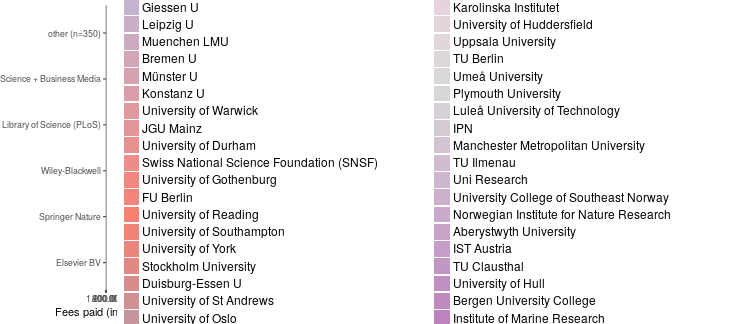
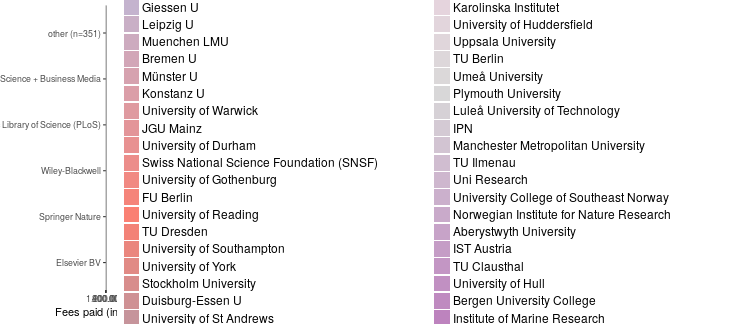
post: tu dresden apc data 2017

Changed region(s): [[0.1825, 0.679, 0.3955, 1.0], [0.1217, 0.0926, 0.1521, 0.1235]]

diff --git a/_posts/2018-05-29-dresden.md b/_posts/2018-05-29-dresden.md
@@ -1,0 +1,62 @@
+---
+layout:     post
+author:     Christoph Broschinski
+author_lnk: https://github.com/cbroschinski
+title:      TU Dresden reports its 2017 APC expenditures
+date:       2018-05-29 08:00:00
+summary:    
+categories: [general, openAPC]
+comments: true
+---
+
+
+
+The [Technische Universität Dresden](https://tu-dresden.de/?set_language=en) has provided its APC expenditures for the 2017 period.
+
+The [Saxon State and University Library Dresden (SLUB)](http://www.slub-dresden.de/en/home/) is in charge of the [Open Access Publication Funds of the TU Dresden](https://www.slub-dresden.de/service/open-science-service/open-access/publikationsfonds/), which receives support by the Deutsche Forschungsgemeinschaft (DFG) under its [Open-Access Publishing Programme](http://www.dfg.de/en/research_funding/programmes/infrastructure/lis/funding_opportunities/open_access/).
+
+Contact person is [Michael Wohlgemuth](mailto:michael.wohlgemuth@slub-dresden.de).
+
+## Cost data
+
+
+
+The new dataset covers publication fees for 80 articles. Total expenditure amounts to 116 372€ and the average fee is 1 455€.
+
+The following table shows the payments the SLUB has made to publishers in 2017.
+
+
+|                                          | Articles| Fees paid in EURO| Mean Fee paid|
+|:-----------------------------------------|--------:|-----------------:|-------------:|
+|Springer Nature                           |       37|             57389|          1551|
+|Frontiers Media SA                        |       10|             16070|          1607|
+|MDPI AG                                   |        9|             11241|          1249|
+|Public Library of Science (PLoS)          |        5|              7960|          1592|
+|Elsevier BV                               |        4|              4818|          1204|
+|BioResources                              |        3|              3954|          1318|
+|Hindawi Publishing Corporation            |        2|              2925|          1462|
+|SAGE Publications                         |        2|              3835|          1918|
+|Bentham Science Publishers Ltd.           |        1|               835|           835|
+|Copernicus GmbH                           |        1|              1696|          1696|
+|EDP Sciences                              |        1|              1071|          1071|
+|Kritische Geographie Berlin e.V.          |        1|               400|           400|
+|Omics Group                               |        1|               602|           602|
+|Ovid Technologies (Wolters Kluwer Health) |        1|              1064|          1064|
+|Ubiquity Press, Ltd.                      |        1|              1681|          1681|
+|Walter de Gruyter GmbH                    |        1|               833|           833|
+
+## Overview
+
+With the recent contribution included, the overall APC data for the TU Dresden now looks as follows:
+
+### Fees paid per publisher (in EURO)
+
+![plot of chunk tree_dresden_2018_05_29_full](/figure/tree_dresden_2018_05_29_full-1.png)
+
+###  Average costs per year (in EURO)
+
+![plot of chunk box_dresden_2018_05_29_year_full](/figure/box_dresden_2018_05_29_year_full-1.png)
+
+###  Average costs per publisher (in EURO)
+
+![plot of chunk box_dresden_2018_05_29_publisher_full](/figure/box_dresden_2018_05_29_publisher_full-1.png)

diff --git a/about.md b/about.md
@@ -224,13 +224,13 @@ Jisc Collections released data on APC payments made by UK higher education insti
 
 Information on both open access journal articles and open access publication of articles in toll-access journals ("hybrid") are provided.
 
-In total,  99 233 730 € for  52 099 articles were paid by the participating unviversities. Average  fee is 1 904.7 € and the median 1 709 €.
+In total,  99 350 102 € for  52 179 articles were paid by the participating unviversities. Average  fee is 1 904 € and the median 1 707 €.
 
 ### Open Access Journals
 
 
 
-At the moment, the dataset releases information on 30 366 articles in open access journals which charge publication fees. Total expenditure amounts to  45 137 544 €. Average  fee is 1 486.5 € and the median 1 415 €.
+At the moment, the dataset releases information on 30 446 articles in open access journals which charge publication fees. Total expenditure amounts to  45 253 916 €. Average  fee is 1 486.4 € and the median 1 415 €.
 
 View dataset on [GitHub](https://github.com/OpenAPC/openapc-de/blob/master/data/apc_de.csv).
 
@@ -343,7 +343,7 @@ View dataset on [GitHub](https://github.com/OpenAPC/openapc-de/blob/master/data/
 |TU Chemnitz                                                     |       73|            84,652|         1,160|  1,289|
 |TU Clausthal                                                    |       12|            11,023|           919|    918|
 |TU Darmstadt                                                    |       35|            48,777|         1,394|  1,497|
-|TU Dresden                                                      |      195|           274,112|         1,406|  1,449|
+|TU Dresden                                                      |      275|           390,484|         1,420|  1,500|
 |TU Ilmenau                                                      |       26|            31,545|         1,213|  1,408|
 |TU Muenchen                                                     |      858|         1,147,525|         1,337|  1,462|
 |TU Wien                                                         |       45|            61,645|         1,370|  1,323|
